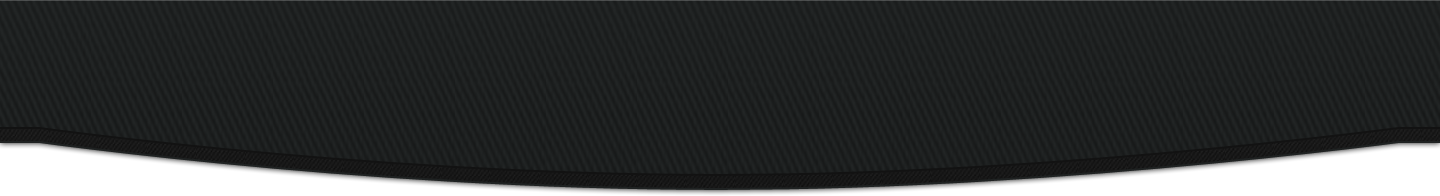
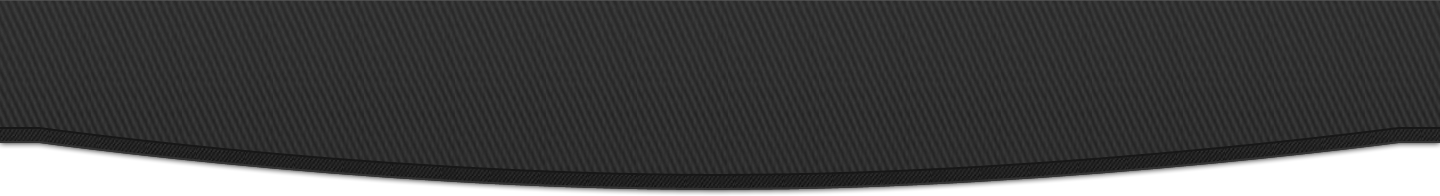
Update Home

diff --git a/index.html b/index.html
@@ -3,7 +3,7 @@
 <html>
 <head>
 	<meta charset="UTF-8">
-	<title>Game Website Template</title>
+	<title>Crypto Games</title>
 	<link rel="stylesheet" href="css/style.css" type="text/css">
 </head>
 <body>
@@ -11,7 +11,7 @@
 		<div id="header">
 			<div>
 				<div>
-					<a href="index.html" class="logo"><img src="images/logo.png" alt=""></a>
+					<a href="index.html" class="logo"><img src="images/PlayToEarn.png" alt=""></a>
 					<ul>
 						<li class="selected">
 							<a href="index.html" id="menu1">home</a>
@@ -36,14 +36,14 @@
 			<div>
 				<div>
 					<div class="featured">
-						<img src="images/featured-game.png" alt="">
+						<img src="images/feature1.jpg" alt="">
 					</div>
 					<div class="section">
 						<div>
-							<h3>This is just a place holder</h3>
+							<h3>PLAY-TO-EARN</h3>
 							<div>
 								<p>
-									This is just a place holder, so you can see what the site would look like. You can replace all this text with your own text. You can remove any link to our website from this website template, you're free to use this website template without linking back to us. You can replace all this text with your own text. You can remove any link to our website from this website template, you're free to use this website template <a href="blog.html" class="more">read more</a>
+									Play-to-earn is a business model that works on blockchain technology. Put simply, players can play a game and potentially earn cryptocurrency. In play-to-earn games, players can get a hold of potentially valuable in-game assets. That can be anything from skins or cards to a specific type of cryptocurrency. The more players play, the more assets they are able to collect, as well as make them more valuable. <a href="blog.html" class="more">read more</a>
 								</p>
 							</div>
 						</div>
@@ -51,14 +51,14 @@
 							<h3>games</h3>
 							<div>
 								<a href="games.html" class="figure"><img src="images/games.jpg" alt=""></a>
-								<span><a href="games.html">This is just a place holder</a></span>
+								<span><a href="games.html">Crypto Games</a></span>
 							</div>
 						</div>
 						<div>
 							<h3>media</h3>
 							<div>
-								<a href="media.html" class="figure"><img src="images/media.jpg" alt=""></a>
-								<span><a href="media.html">This is just a place holder</a></span>
+								<a href="media.html" class="figure"><img src="images/media1.jpg" alt=""></a>
+								<span><a href="media.html">How do they work?</a></span>
 							</div>
 						</div>
 					</div>
@@ -69,13 +69,13 @@
 			<div>
 				<ul>
 					<li id="facebook">
-						<a href="http://freewebsitetemplates.com/go/facebook/">facebook</a>
+						<a href="https://www.facebook.com/rusty.gunao.5/">facebook</a>
 					</li>
 					<li id="twitter">
-						<a href="http://freewebsitetemplates.com/go/twitter/">twitter</a>
+						<a href="">twitter</a>
 					</li>
 					<li id="googleplus">
-						<a href="http://freewebsitetemplates.com/go/googleplus/">googleplus</a>
+						<a href="">googleplus</a>
 					</li>
 				</ul>
 				<p>

diff --git a/media.html b/media.html
@@ -3,7 +3,7 @@
 <html>
 <head>
 	<meta charset="UTF-8">
-	<title>Media - Game Website Template</title>
+	<title>Crypto Games</title>
 	<link rel="stylesheet" href="css/style.css" type="text/css">
 </head>
 <body>
@@ -11,7 +11,7 @@
 		<div id="header">
 			<div>
 				<div>
-					<a href="index.html" class="logo"><img src="images/logo.png" alt=""></a>
+					<a href="index.html" class="logo"><img src="images/PlayToEarn.png" alt=""></a>
 					<ul>
 						<li>
 							<a href="index.html" id="menu1">home</a>
@@ -105,13 +105,13 @@
 			<div>
 				<ul>
 					<li id="facebook">
-						<a href="http://freewebsitetemplates.com/go/facebook/">facebook</a>
+						<a href="https://www.facebook.com/rusty.gunao.5/">facebook</a>
 					</li>
 					<li id="twitter">
-						<a href="http://freewebsitetemplates.com/go/twitter/">twitter</a>
+						<a href="">twitter</a>
 					</li>
 					<li id="googleplus">
-						<a href="http://freewebsitetemplates.com/go/googleplus/">googleplus</a>
+						<a href="">googleplus</a>
 					</li>
 				</ul>
 				<p>

diff --git a/blog.html b/blog.html
@@ -3,7 +3,7 @@
 <html>
 <head>
 	<meta charset="UTF-8">
-	<title>Blog - Game Website Template</title>
+	<title>Crypto Games</title>
 	<link rel="stylesheet" href="css/style.css" type="text/css">
 </head>
 <body>
@@ -11,7 +11,7 @@
 		<div id="header">
 			<div>
 				<div>
-					<a href="index.html" class="logo"><img src="images/logo.png" alt=""></a>
+					<a href="index.html" class="logo"><img src="images/PlayToEarn.png" alt=""></a>
 					<ul>
 						<li>
 							<a href="index.html" id="menu1">home</a>
@@ -105,13 +105,13 @@
 			<div>
 				<ul>
 					<li id="facebook">
-						<a href="http://freewebsitetemplates.com/go/facebook/">facebook</a>
+						<a href="https://www.facebook.com/rusty.gunao.5/">facebook</a>
 					</li>
 					<li id="twitter">
-						<a href="http://freewebsitetemplates.com/go/twitter/">twitter</a>
+						<a href="">twitter</a>
 					</li>
 					<li id="googleplus">
-						<a href="http://freewebsitetemplates.com/go/googleplus/">googleplus</a>
+						<a href="">googleplus</a>
 					</li>
 				</ul>
 				<p>

diff --git a/about.html b/about.html
@@ -3,7 +3,7 @@
 <html>
 <head>
 	<meta charset="UTF-8">
-	<title>About - Game Website Template</title>
+	<title>Crypto Games</title>
 	<link rel="stylesheet" href="css/style.css" type="text/css">
 </head>
 <body>
@@ -11,7 +11,7 @@
 		<div id="header">
 			<div>
 				<div>
-					<a href="index.html" class="logo"><img src="images/logo.png" alt=""></a>
+					<a href="index.html" class="logo"><img src="images/PlayToEarn.png" alt=""></a>
 					<ul>
 						<li>
 							<a href="index.html" id="menu1">home</a>
@@ -91,13 +91,13 @@
 			<div>
 				<ul>
 					<li id="facebook">
-						<a href="http://freewebsitetemplates.com/go/facebook/">facebook</a>
+						<a href="https://www.facebook.com/rusty.gunao.5/">facebook</a>
 					</li>
 					<li id="twitter">
-						<a href="http://freewebsitetemplates.com/go/twitter/">twitter</a>
+						<a href="">twitter</a>
 					</li>
 					<li id="googleplus">
-						<a href="http://freewebsitetemplates.com/go/googleplus/">googleplus</a>
+						<a href="">googleplus</a>
 					</li>
 				</ul>
 				<p>

diff --git a/games.html b/games.html
@@ -3,7 +3,7 @@
 <html>
 <head>
 	<meta charset="UTF-8">
-	<title>Games - Game Website Template</title>
+	<title>Crypto Games</title>
 	<link rel="stylesheet" href="css/style.css" type="text/css">
 </head>
 <body>
@@ -11,7 +11,7 @@
 		<div id="header">
 			<div>
 				<div>
-					<a href="index.html" class="logo"><img src="images/logo.png" alt=""></a>
+					<a href="index.html" class="logo"><img src="images/PlayToEarn.png" alt=""></a>
 					<ul>
 						<li>
 							<a href="index.html" id="menu1">home</a>
@@ -89,13 +89,13 @@
 			<div>
 				<ul>
 					<li id="facebook">
-						<a href="http://freewebsitetemplates.com/go/facebook/">facebook</a>
+						<a href="https://www.facebook.com/rusty.gunao.5/">facebook</a>
 					</li>
 					<li id="twitter">
-						<a href="http://freewebsitetemplates.com/go/twitter/">twitter</a>
+						<a href="">twitter</a>
 					</li>
 					<li id="googleplus">
-						<a href="http://freewebsitetemplates.com/go/googleplus/">googleplus</a>
+						<a href="">googleplus</a>
 					</li>
 				</ul>
 				<p>

diff --git a/css/style.css b/css/style.css
@@ -20,7 +20,7 @@ body {
 	padding: 0;
 }
 #background {
-	background: url(../images/bg-page.jpg) no-repeat top center;
+	background: url(../images/background.jpg) no-repeat top center;
 	margin: 0;
 	padding: 0;
 }
@@ -158,7 +158,7 @@ body {
 	display: block;
 	left: 0;
 	position: absolute;
-	top: -112px;
+	top: -75px;
 	z-index: 1;
 }
 #body div div .section {
